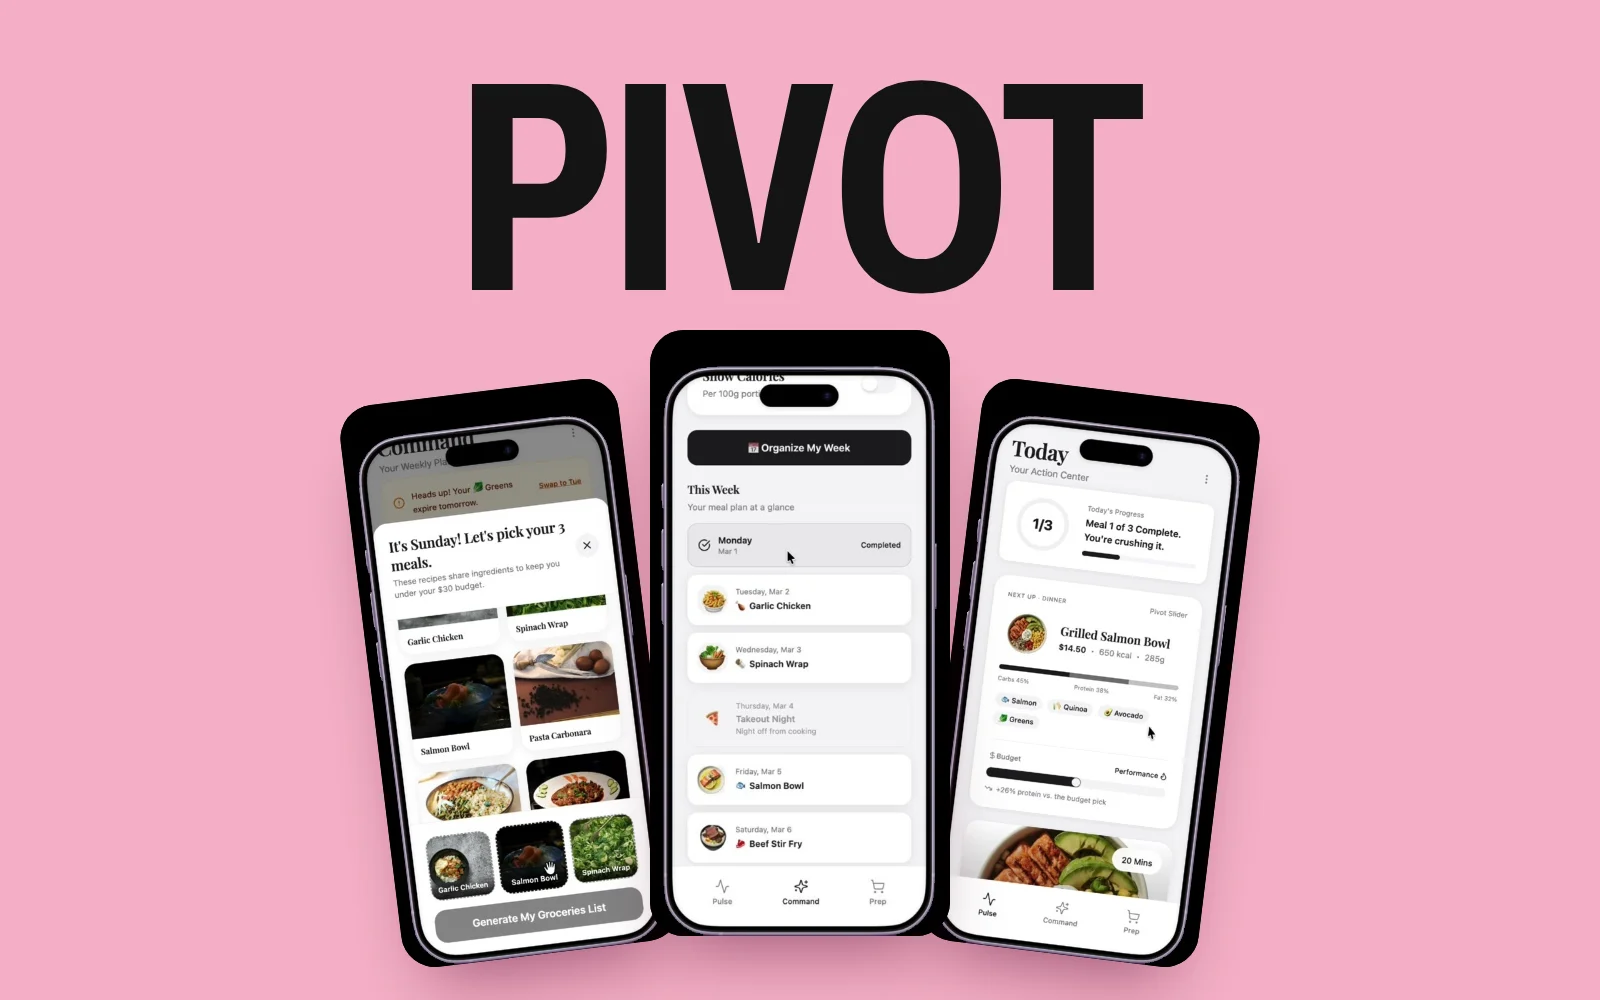
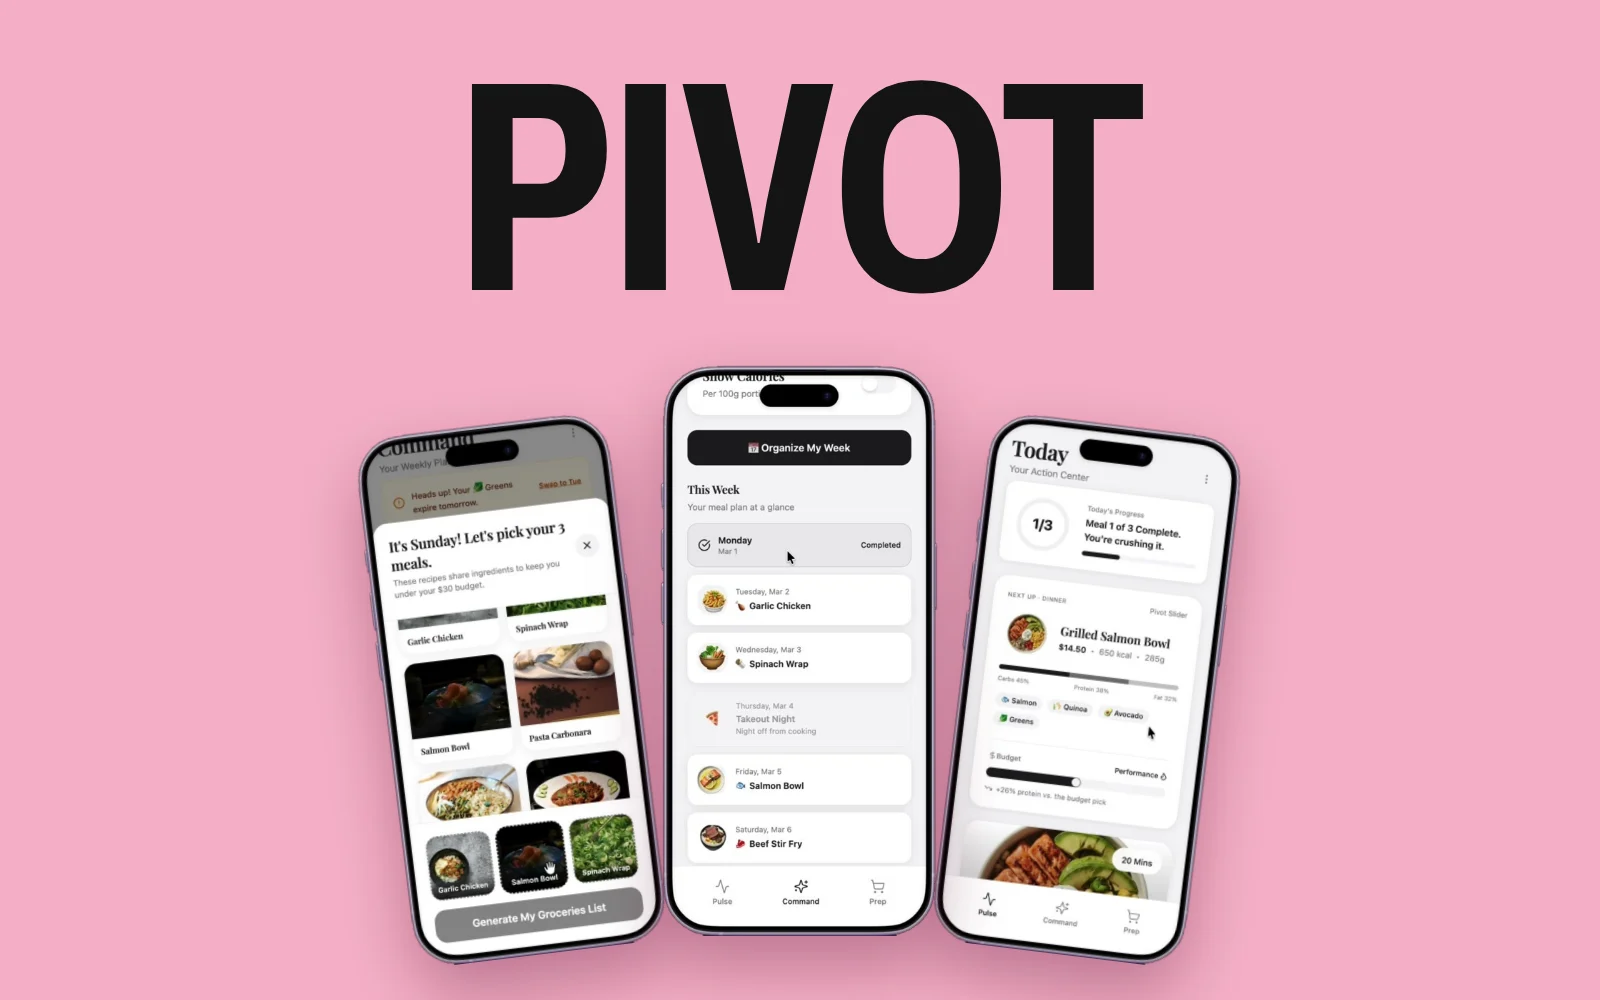
Pivot: transparent phone edges, trim heuristic section
- Mask phone recordings so the section color shows around each phone
- Cover re-rendered with floating phones on pink
- Tabs before/after removed; kept as a row in the issues table

Claude-Session: https://claude.ai/code/session_01NBvdp54BbK78QWyJo4KFW5

Changed region(s): [[0.1875, 0.31, 0.8125, 0.992], [0.6875, 0.527, 0.7188, 0.558], [0.3125, 0.868, 0.3438, 0.899]]

diff --git a/pivot/index.html b/pivot/index.html
@@ -44,8 +44,8 @@ section{padding-block:clamp(56px,8vw,104px);overflow:hidden;scroll-margin-top:0}
 @media (max-width:860px){.split{grid-template-columns:1fr}}
 
 /* phone frames */
-.phone{margin:0;background:#000;padding:0;border-radius:22px;overflow:hidden;box-shadow:0 30px 60px -30px rgba(0,0,0,.7)}
-.phone video,.phone img{display:block;width:100%;aspect-ratio:420/850;object-fit:cover;background:#000}
+.phone{margin:0;background:none;padding:0;filter:drop-shadow(0 24px 30px rgba(0,0,0,.35))}
+.phone video,.phone img{display:block;width:100%;aspect-ratio:420/850;object-fit:cover;background:#000;-webkit-mask:url(img/phone-mask.png) center/100% 100% no-repeat;mask:url(img/phone-mask.png) center/100% 100% no-repeat}
 
 /* HERO */
 .hero{position:relative;padding-block:clamp(40px,6vw,88px) clamp(48px,6vw,80px);background:
@@ -170,7 +170,6 @@ section{padding-block:clamp(56px,8vw,104px);overflow:hidden;scroll-margin-top:0}
 .ba figcaption i{display:block;margin-top:6px;font-size:.85rem;opacity:.7}
 .shot{display:grid;place-items:center;min-height:260px;background:#E2D8C2;border-radius:14px;padding:16px}
 .shot img{display:block;width:100%;max-width:300px;border-radius:12px;box-shadow:0 14px 30px -18px rgba(0,0,0,.5)}
-.shot.stack2{gap:12px;align-content:center}
 /* app-style mocks (match the prototype's look) */
 .app{font-family:-apple-system,BlinkMacSystemFont,"Helvetica Neue",Arial,sans-serif;background:#fff;color:#141414;border-radius:20px;padding:18px;box-shadow:0 18px 40px -22px rgba(60,10,30,.5);max-width:340px;width:100%;justify-self:center;min-height:260px;display:grid;align-content:start;gap:14px}
 .app-k{display:flex;justify-content:space-between;font-size:.66rem;letter-spacing:.06em;text-transform:uppercase;color:#7A7A7A}
@@ -183,13 +182,6 @@ section{padding-block:clamp(56px,8vw,104px);overflow:hidden;scroll-margin-top:0}
 .app-ends{display:flex;justify-content:space-between;font-size:.72rem;color:#7A7A7A;margin-top:-8px}
 .app-delta{font-size:.85rem;font-weight:600;background:#F4F1EA;border-radius:10px;padding:10px 12px}
 .app input:focus-visible{outline:2px solid #141414;outline-offset:4px}
-.navdemo{align-content:space-between}
-.app-title{font-family:"Playfair Display",Georgia,serif;font-weight:700;font-size:1.9rem;line-height:1}
-.ph-rows{display:grid;gap:10px}.ph-rows i{display:block;height:44px;border-radius:12px;background:#F2F0EB}
-.tabs{display:grid;grid-template-columns:repeat(3,1fr);border-top:1px solid #E6E6E6;padding-top:12px;margin-top:8px}
-.tabs span{display:grid;justify-items:center;gap:6px;font-size:.78rem;color:#8A8A8A}
-.tabs span.on{color:#141414;font-weight:700}
-.tabs svg{width:22px;height:22px;fill:none;stroke:currentColor;stroke-width:1.6;stroke-linecap:round;stroke-linejoin:round}
 .rest{margin-top:clamp(48px,6vw,72px);display:grid;gap:16px}
 .rest .menu .r{grid-template-columns:auto minmax(0,1fr) auto;align-items:center}
 .rest .menu .sev{font-size:.8rem;padding:4px 10px}
@@ -467,7 +459,7 @@ section{padding-block:clamp(56px,8vw,104px);overflow:hidden;scroll-margin-top:0}
         <span class="tag">10 · Heuristic review</span>
         <h2>Auditing my own prototype</h2>
       </div>
-      <p class="lead">Peers rated the flows highly. Then I checked the recorded prototype against Nielsen’s 10 usability heuristics myself, rating each issue from 1 (cosmetic) to 4 (must fix). Four issues scored a 3. Below are the two that matter most, before and after.</p>
+      <p class="lead">Peers rated the flows highly. Then I checked the recorded prototype against Nielsen’s 10 usability heuristics myself, rating each issue from 1 (cosmetic) to 4 (must fix). Four issues scored a 3. The most important one is shown before and after below.</p>
     </div>
 
     <div class="fix">
@@ -487,28 +479,10 @@ section{padding-block:clamp(56px,8vw,104px);overflow:hidden;scroll-margin-top:0}
       </div>
     </div>
 
-    <div class="fix">
-      <div class="fix-hd"><span class="sev">Severity 3</span><span class="tag">Match with the real world</span><h3>Tabs that don’t match their pages</h3></div>
-      <div class="ba">
-        <figure class="before"><span class="lbl">Before</span><div class="shot stack2"><img src="img/hr-title-before.webp" alt="Page title reads Today" loading="lazy"><img src="img/hr-nav-before.webp" alt="Tab bar reads Pulse, Command, Prep" loading="lazy"></div><figcaption>The page says “Today” but the tab says “Pulse”. “Command” opens the weekly plan. Students had to learn my internal names.</figcaption></figure>
-        <figure class="after"><span class="lbl">After</span>
-          <div class="app navdemo">
-            <p class="app-title">Today</p>
-            <div class="ph-rows" aria-hidden="true"><i></i><i style="width:70%"></i><i style="width:85%"></i></div>
-            <div class="tabs" role="presentation">
-              <span class="on"><svg viewBox="0 0 24 24" aria-hidden="true"><circle cx="12" cy="12" r="4.5"/><path d="M12 2v2.5M12 19.5V22M2 12h2.5M19.5 12H22M4.9 4.9l1.8 1.8M17.3 17.3l1.8 1.8M4.9 19.1l1.8-1.8M17.3 6.7l1.8-1.8"/></svg>Today</span>
-              <span><svg viewBox="0 0 24 24" aria-hidden="true"><rect x="3.5" y="5" width="17" height="15" rx="2.5"/><path d="M3.5 10h17M8 3v4M16 3v4"/></svg>Week</span>
-              <span><svg viewBox="0 0 24 24" aria-hidden="true"><path d="M3 4h2.5l2.2 11h10.6L20.5 8H7"/><circle cx="9.5" cy="19" r="1.4"/><circle cx="17" cy="19" r="1.4"/></svg>Shop</span>
-            </div>
-          </div>
-          <figcaption>Each tab is named after the page it opens and the question it answers: what do I eat today, what’s my week, what do I buy.</figcaption>
-        </figure>
-      </div>
-    </div>
-
     <div class="rest">
       <span class="tag">Other issues and fixes</span>
       <div class="menu">
+        <div class="r"><span class="sev">3</span><span class="v"><b>Tab names don’t match their pages.</b> “Pulse” opens Today, “Command” opens the week. → Rename the tabs Today / Week / Shop.</span><span class="p">Real-world match</span></div>
         <div class="r"><span class="sev">3</span><span class="v"><b>Two shopping lists.</b> Prep and Week each show a list with a different total. → Keep one list. Week links to it.</span><span class="p">Consistency</span></div>
         <div class="r"><span class="sev">3</span><span class="v"><b>Receipt scan writes straight to the fridge.</b> → Add a review step before saving, plus a quick fridge check before Sunday planning.</span><span class="p">Error prevention</span></div>
         <div class="r"><span class="sev s2">2</span><span class="v"><b>Three “what do I eat” buttons on one screen.</b> → One “Too tired?” entry that opens both rescue options.</span><span class="p">Minimalism</span></div>
